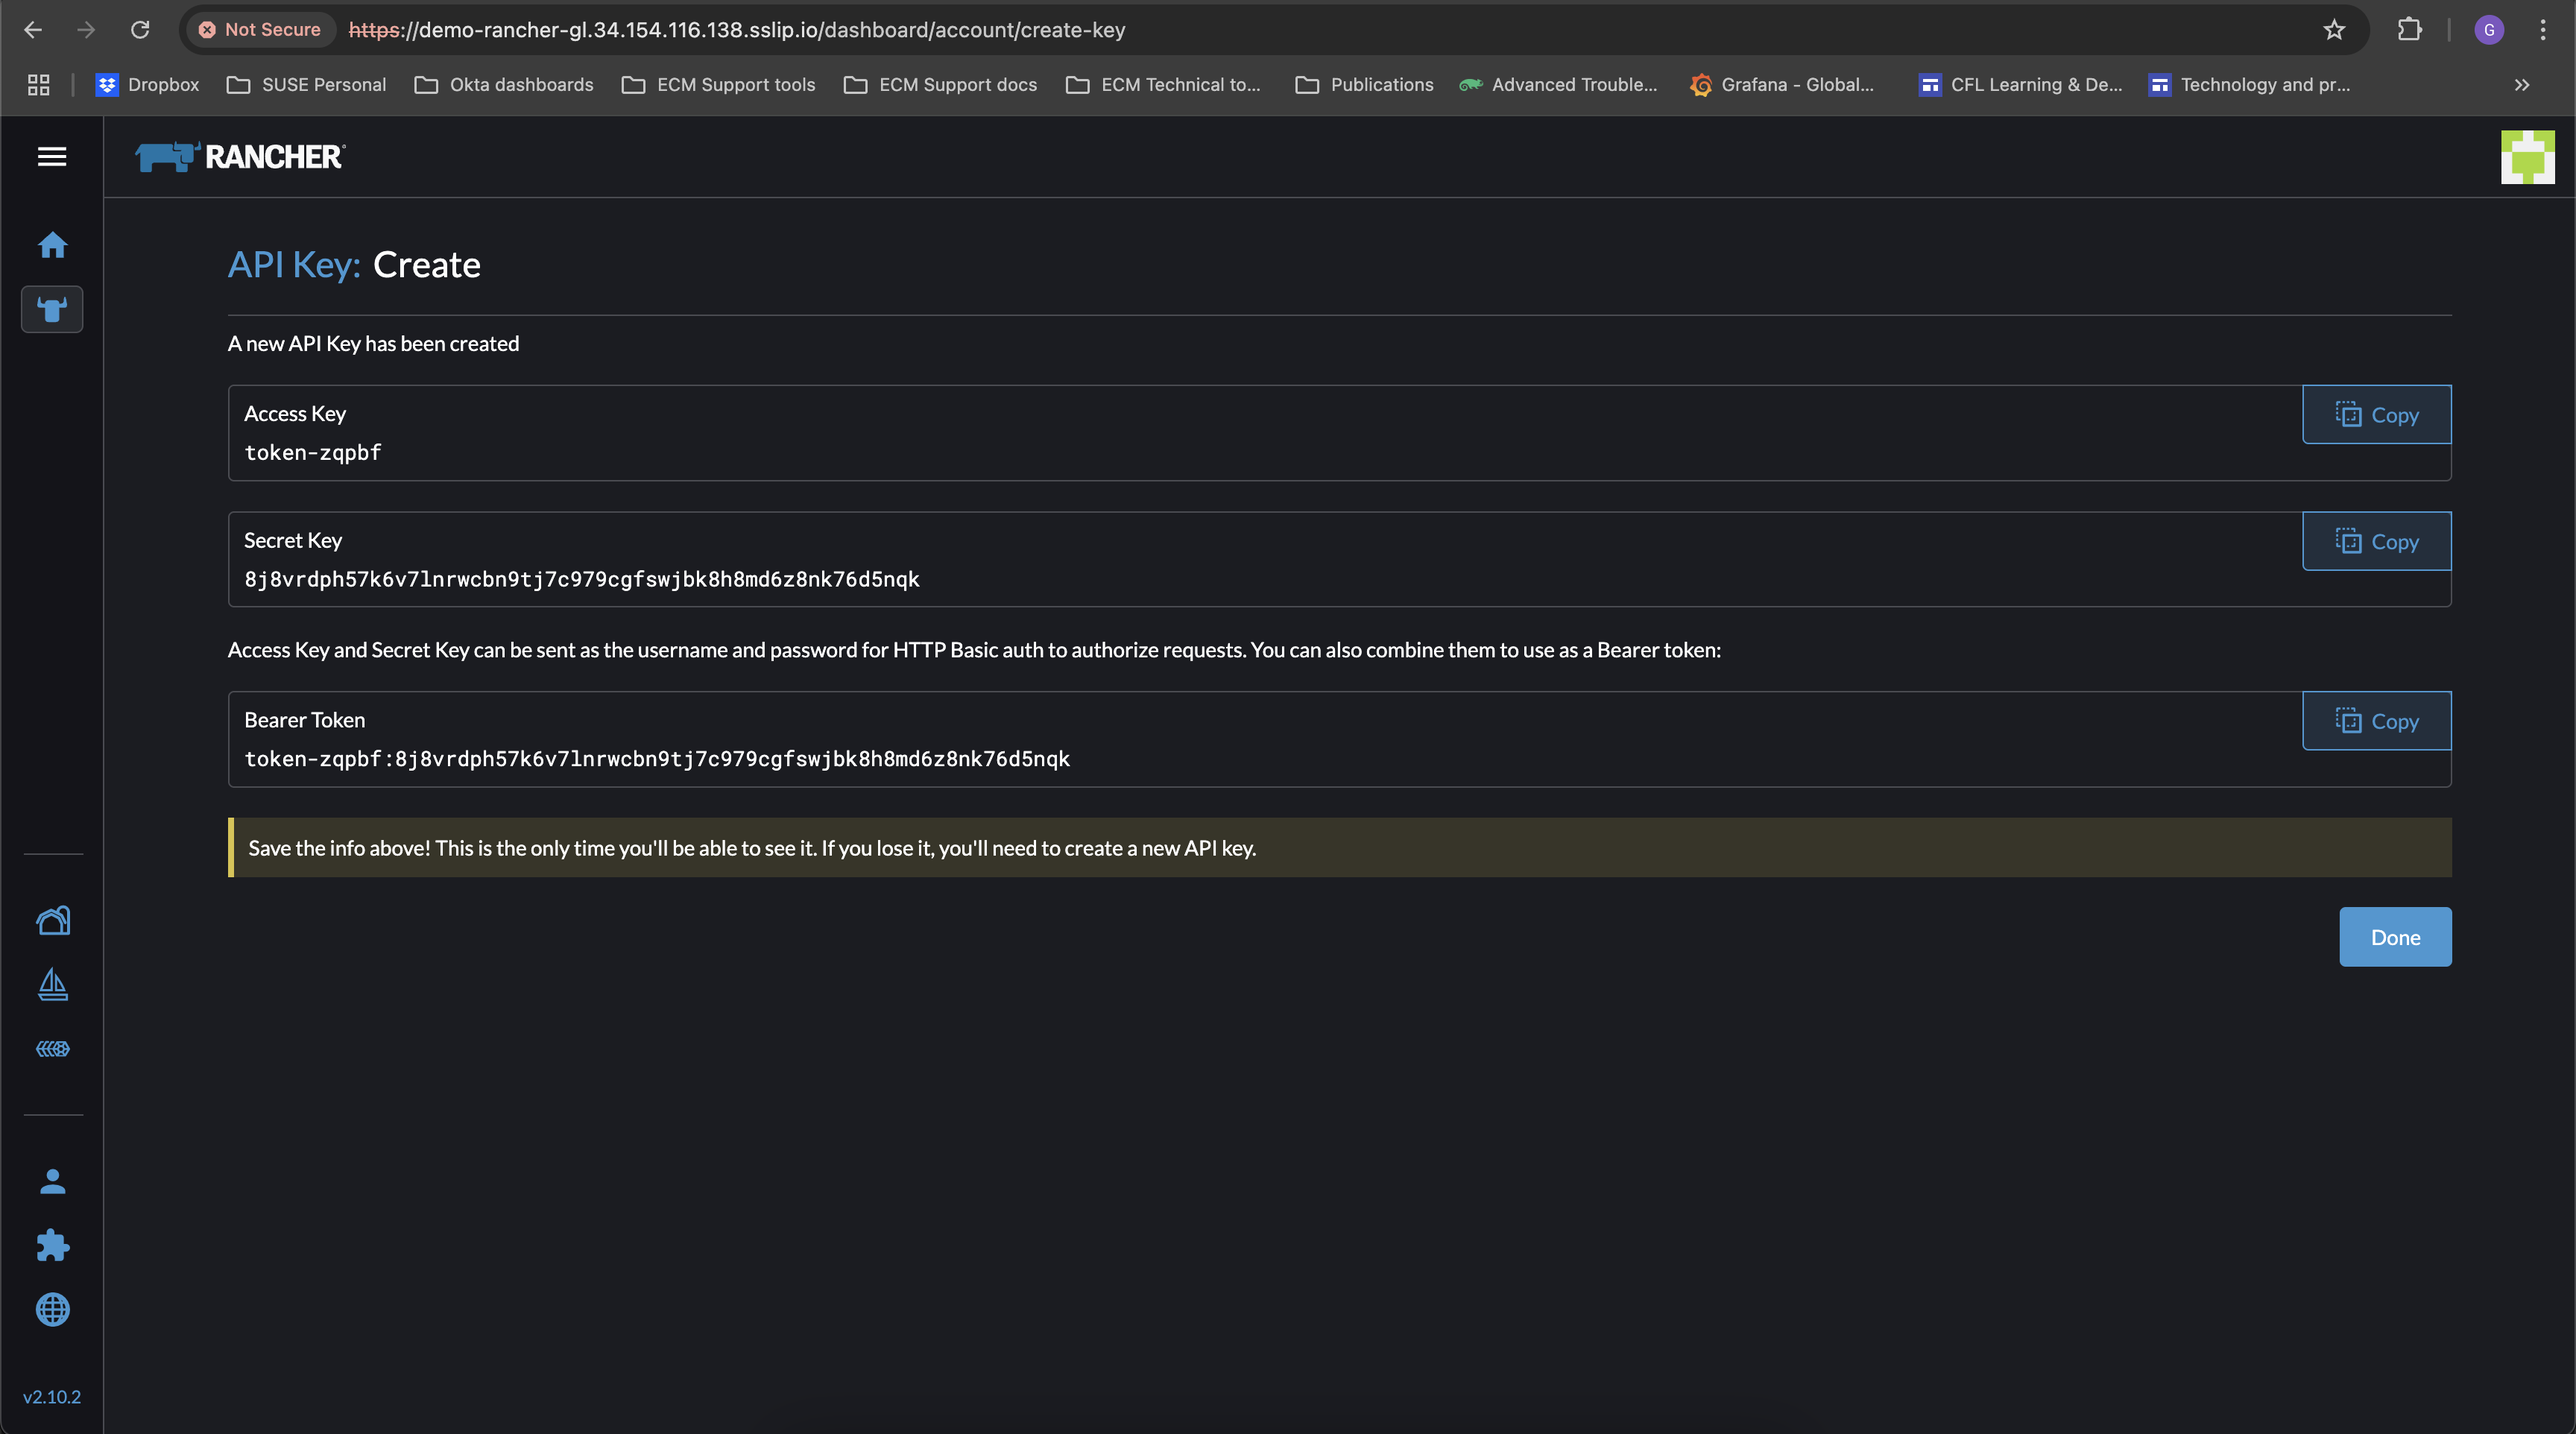
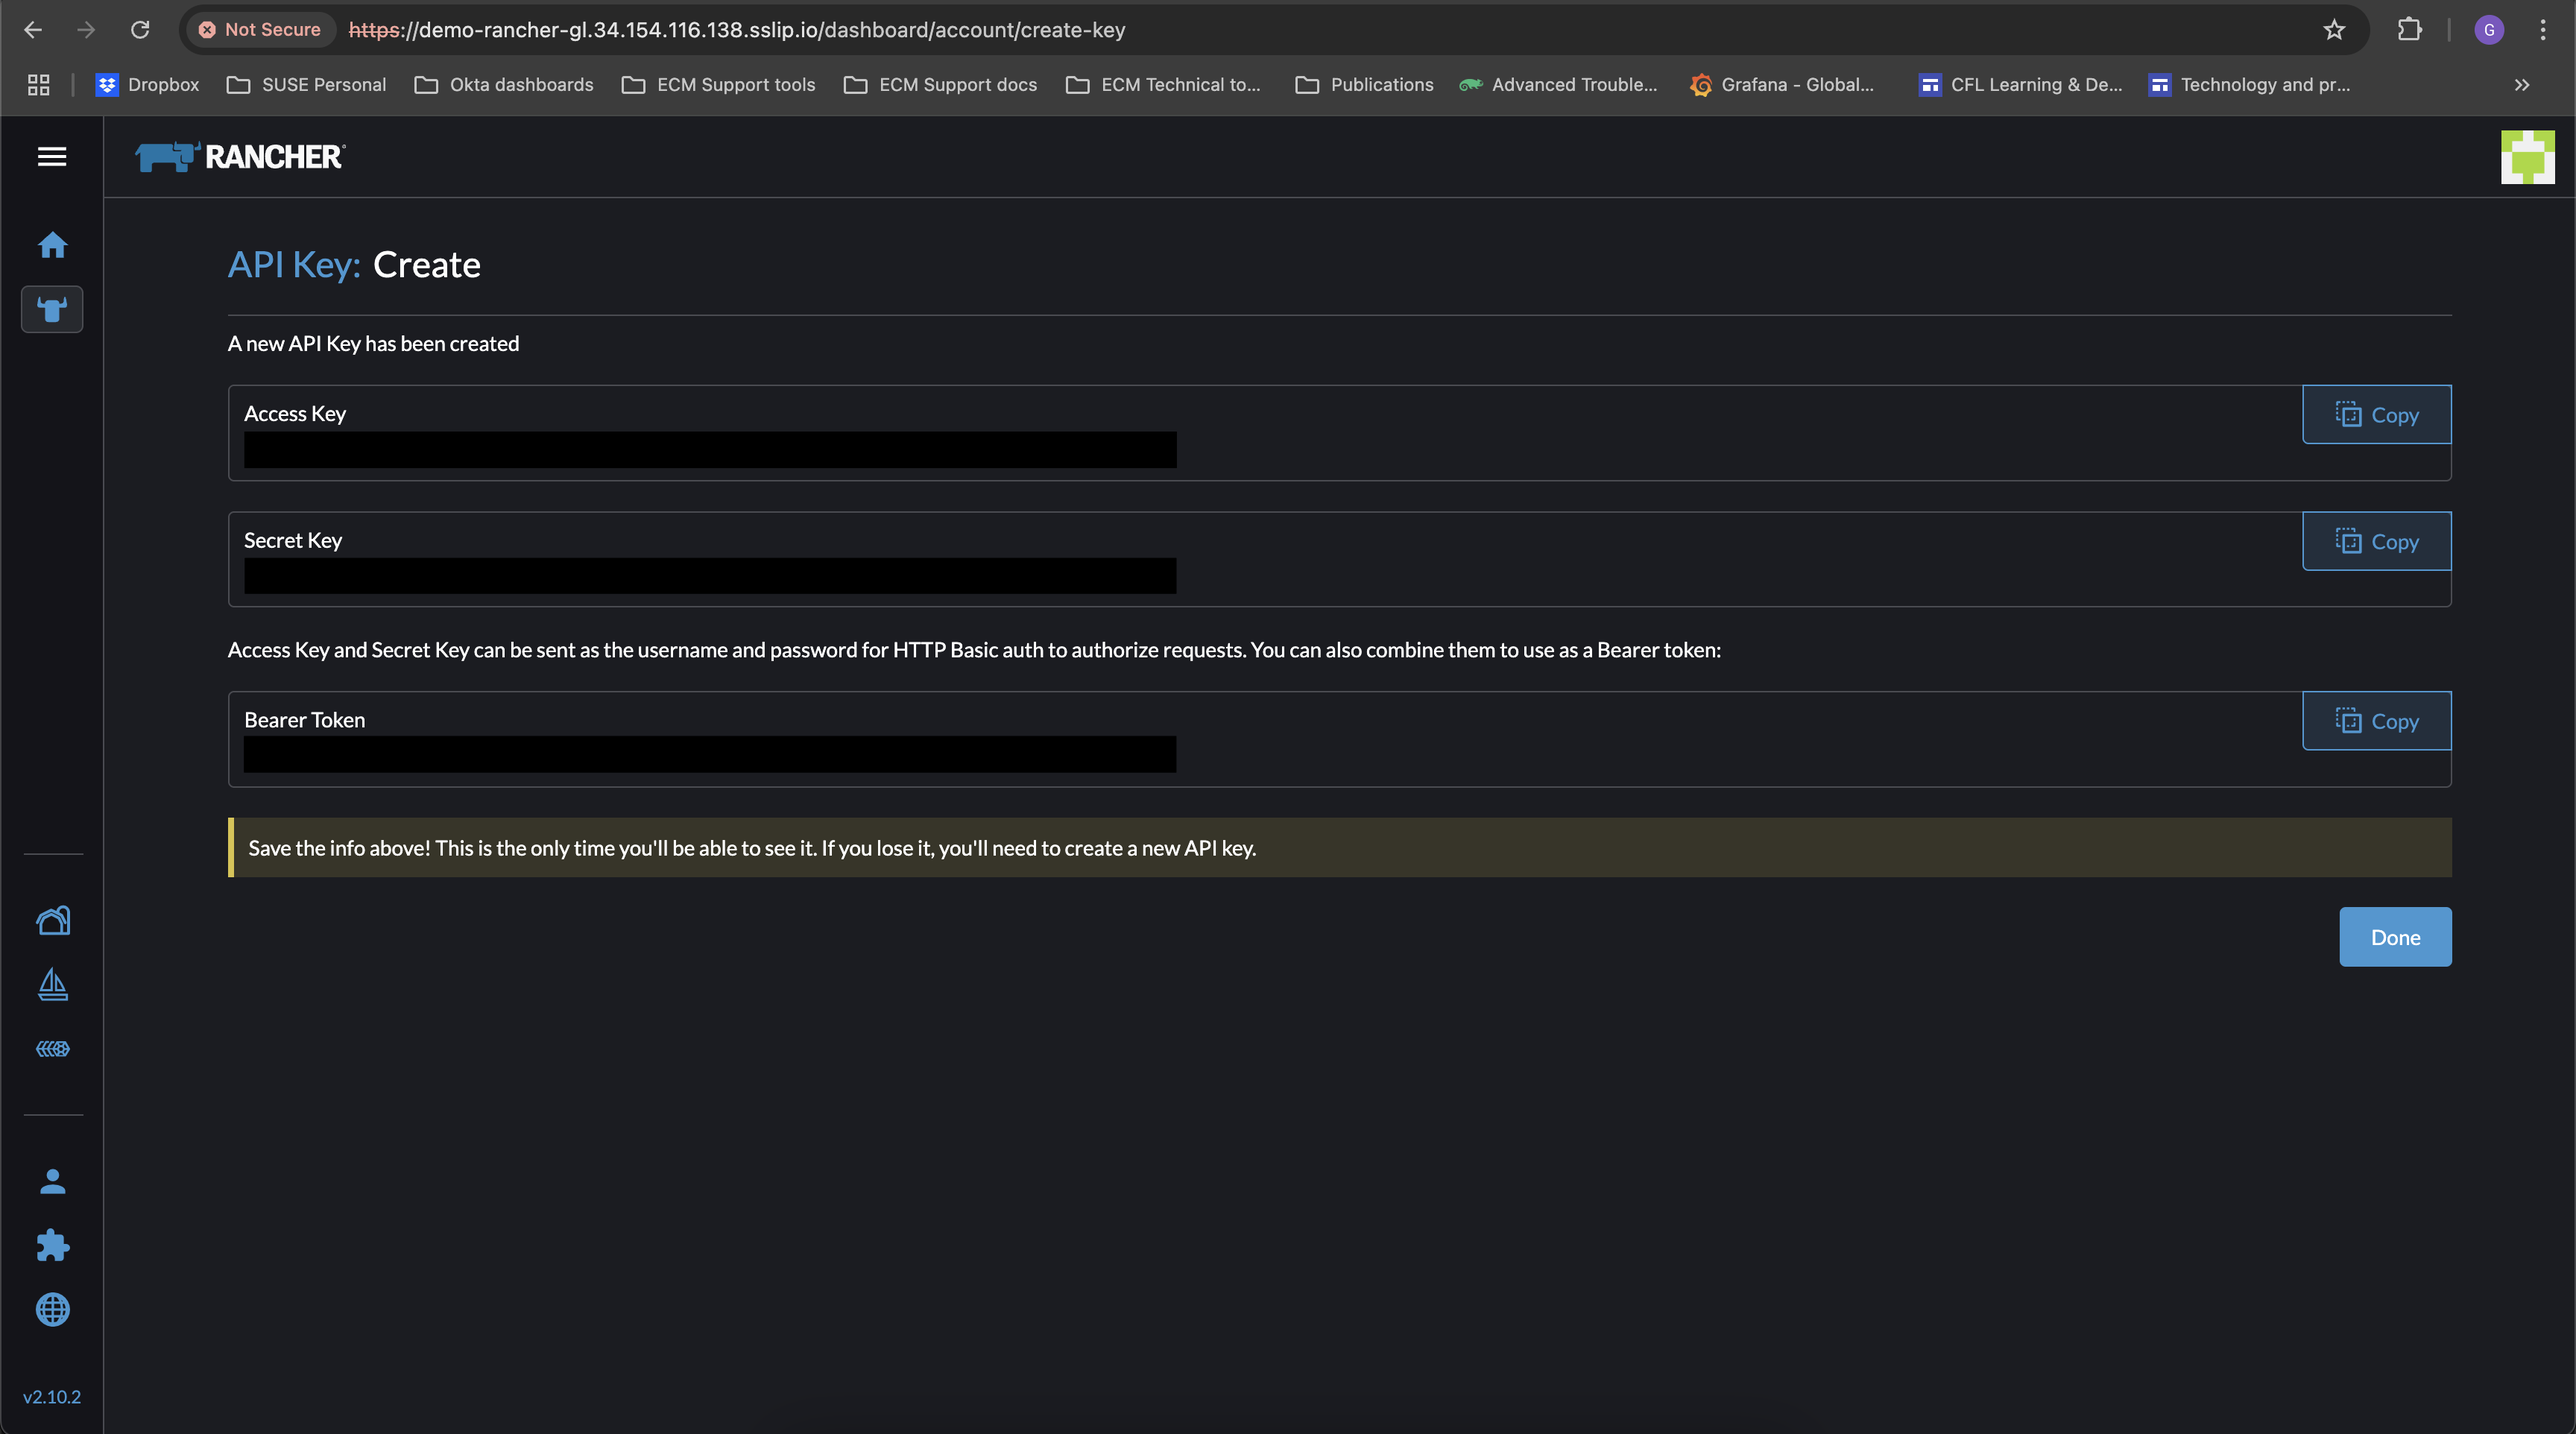
Modified DEMO 2 from README.md file

Changed region(s): [[0.0938, 0.499, 0.4688, 0.5613], [0.0938, 0.3742, 0.4688, 0.4366], [0.0938, 0.2807, 0.4688, 0.343]]

diff --git a/projects/google-cloud/README.md b/projects/google-cloud/README.md
@@ -104,9 +104,9 @@ prefix               = "glovecchio"
 project_id           = "<PROJECT_ID>"
 region               = "europe-west8"
 harvester_node_count = 3
-rancher_api_url      = "https://demo-rancher-gl.34.154.116.138.sslip.io/v3"
-rancher_access_key   = "token-zqpbf"
-rancher_secret_key   = "8j8vrdph57k6v7lnrwcbn9tj7c979cgfswjbk8h8md6z8nk76d5nqk"
+rancher_api_url      = "<RANCHER_URL>"        # https://rancher.example.com
+rancher_access_key   = "<RANCHER_ACCESS_KEY>" # token-abcde
+rancher_secret_key   = "<RANCHER_SECRET_KEY>" # abcdefghijklmnopqrstuvwxyz
 rancher_insecure     = true
 ```
 
